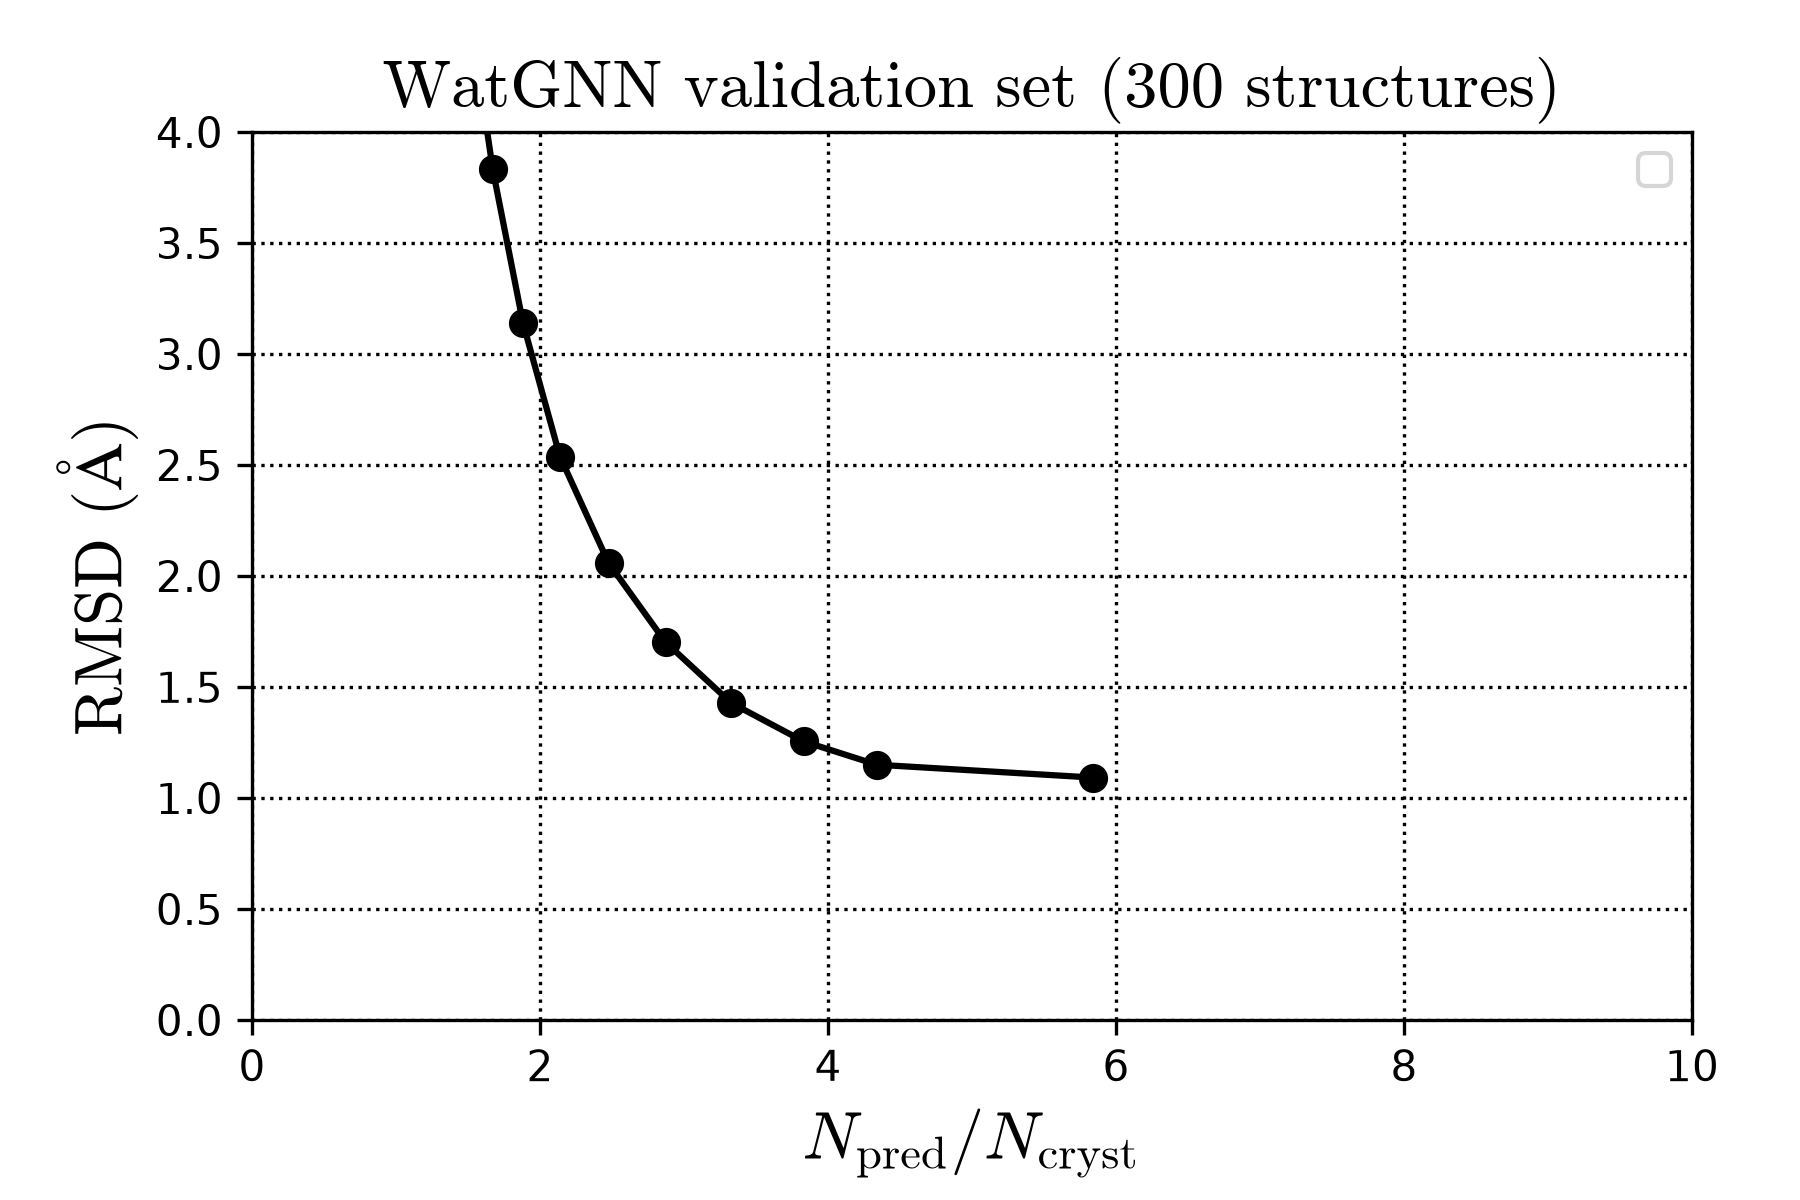
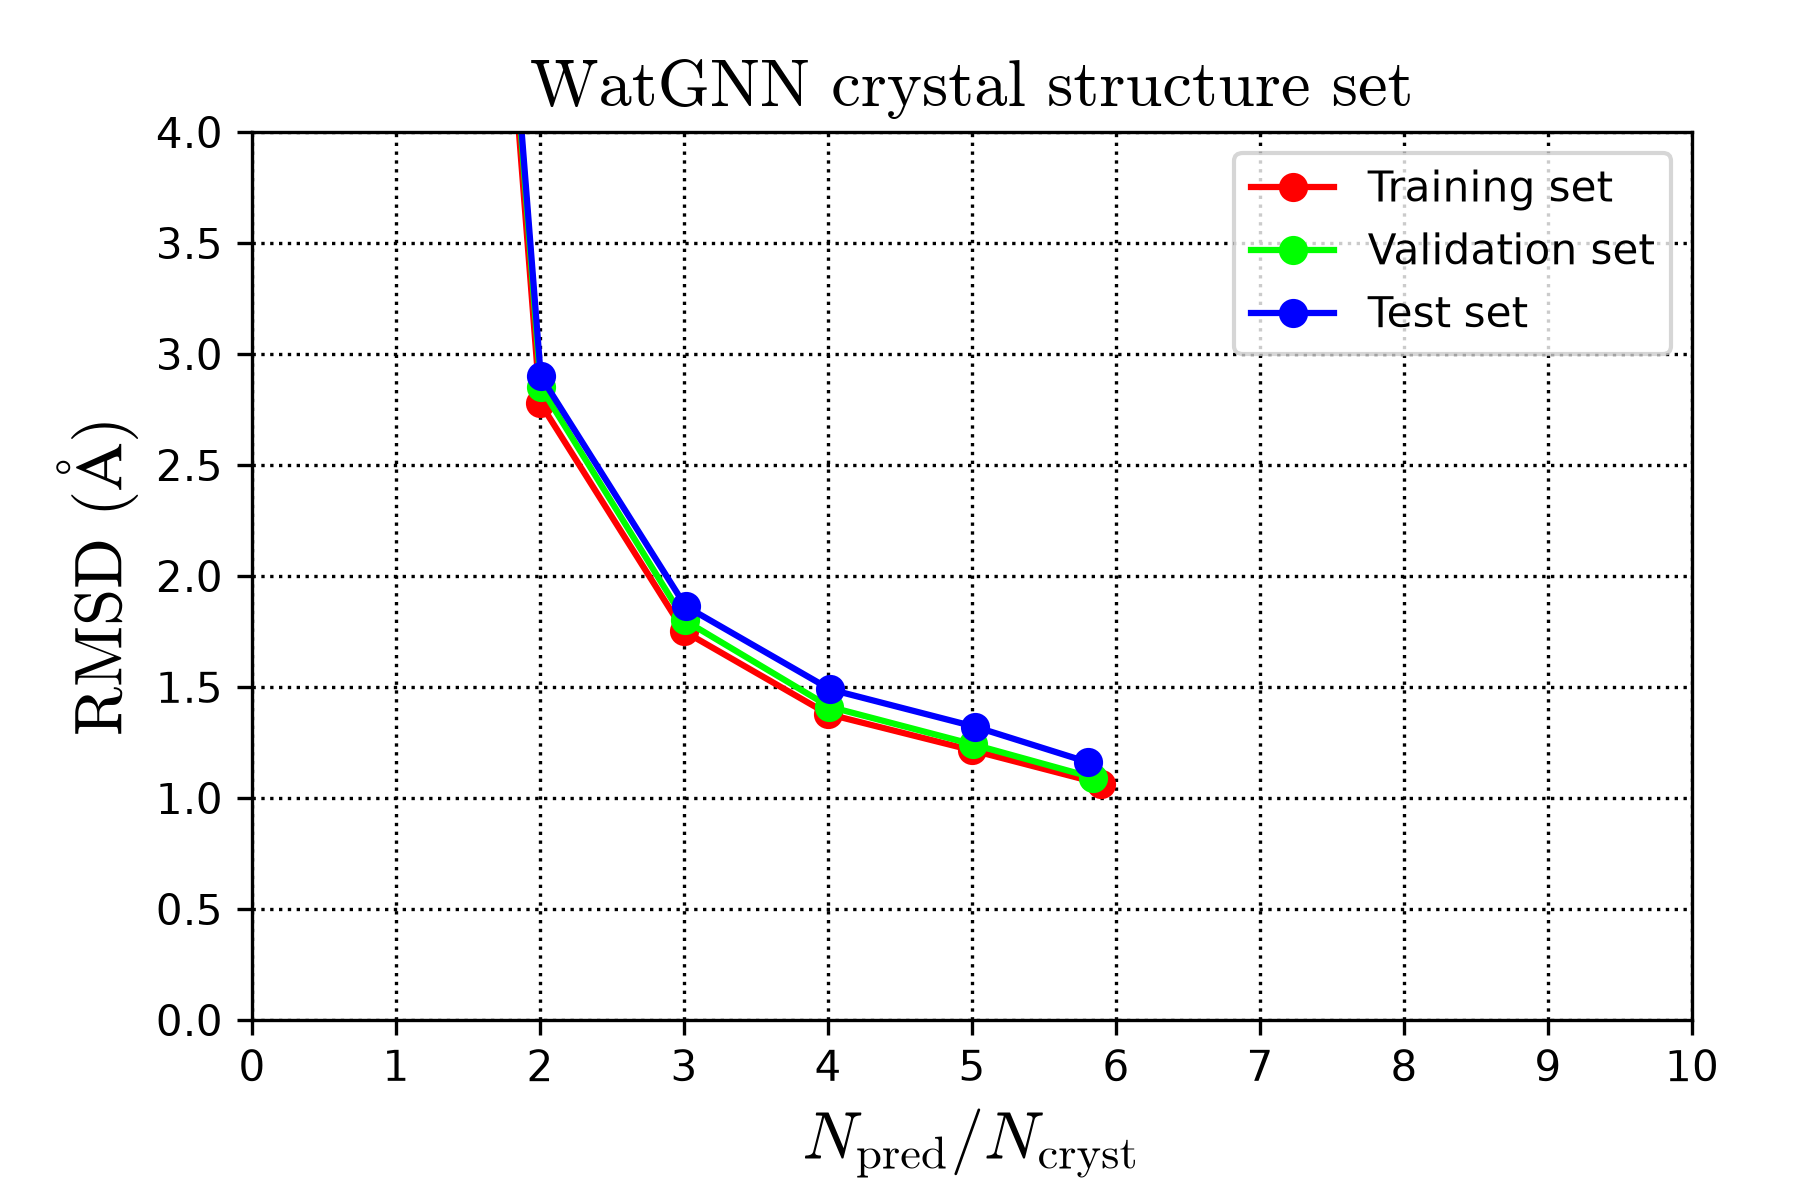
(plot)y-axis fix for WatGNN set

diff --git a/watgnn/Precalculated_data/WatGNN set/scripts/plot_newset.py b/watgnn/Precalculated_data/WatGNN set/scripts/plot_newset.py
@@ -140,11 +140,11 @@ for method in method_list:
         if ylabel == 'RMSD':
             ax.set_ylabel(r'$\mathrm{RMSD}$ $\mathrm{( {\AA } )}$',fontproperties=prop)
         elif ylabel == 'cov_05':
-            ax.set_ylabel(r'$\mathrm{Coverage}$ $\mathrm{({0.5\AA})}$',fontproperties=prop)
+            ax.set_ylabel(r'$\mathrm{Mean}$ $\mathrm{recall ({0.5 \AA})}$',fontproperties=prop)
         elif ylabel == 'cov_10':
-            ax.set_ylabel(r'$\mathrm{Coverage}$',fontproperties=prop)
+            ax.set_ylabel(r'$\mathrm{Mean}$ $\mathrm{recall ({1.0 \AA})}$',fontproperties=prop)
         elif ylabel == 'cov_15':
-            ax.set_ylabel(r'$\mathrm{Coverage}$ $\mathrm{({1.5\AA})}$',fontproperties=prop)
+            ax.set_ylabel(r'$\mathrm{Mean}$ $\mathrm{recall ({1.5 \AA})}$',fontproperties=prop)
         else:
             ax.set_ylabel(r'$\mathrm{%s}$'%ylabel,fontproperties=prop)
         ax.set_xticks(range(11))
